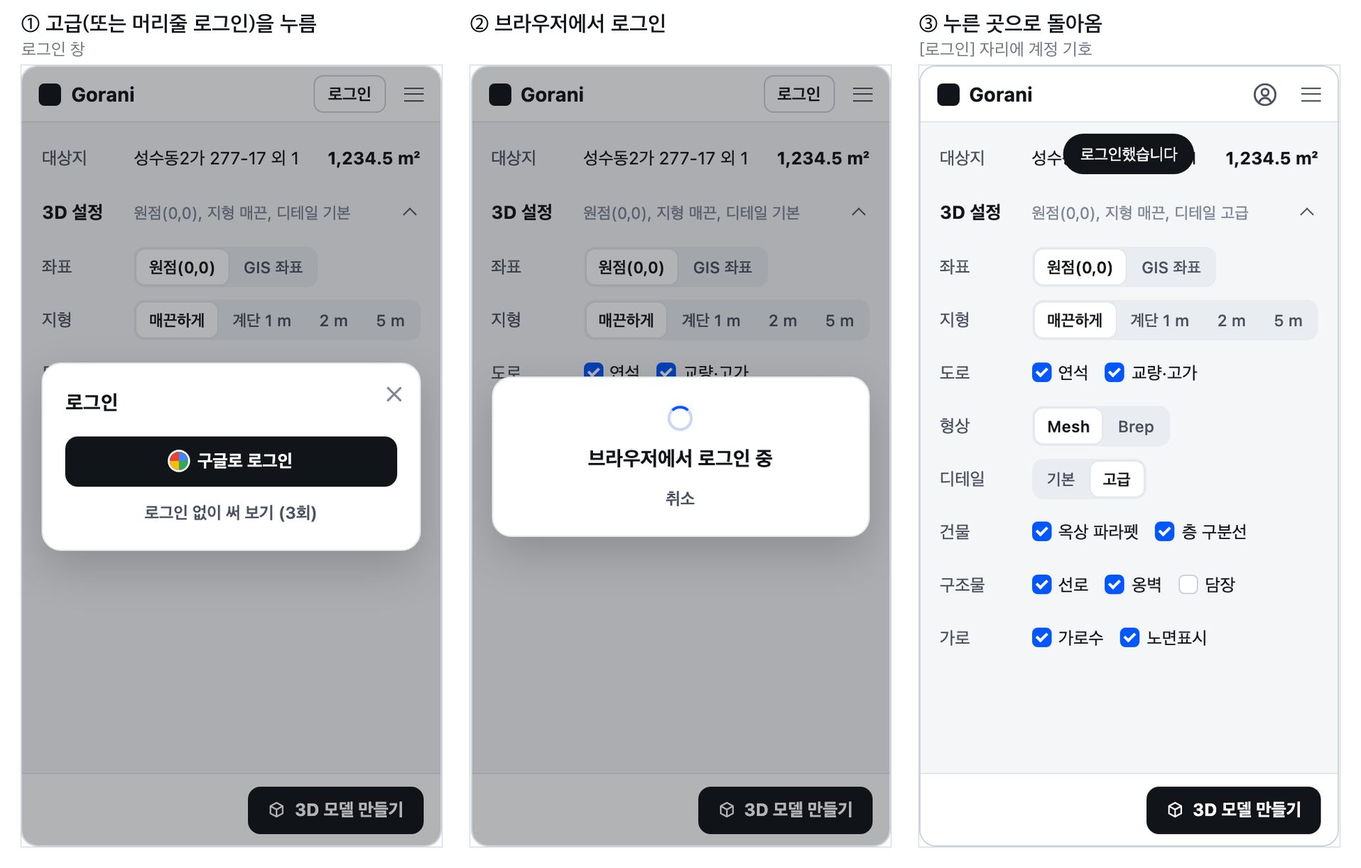
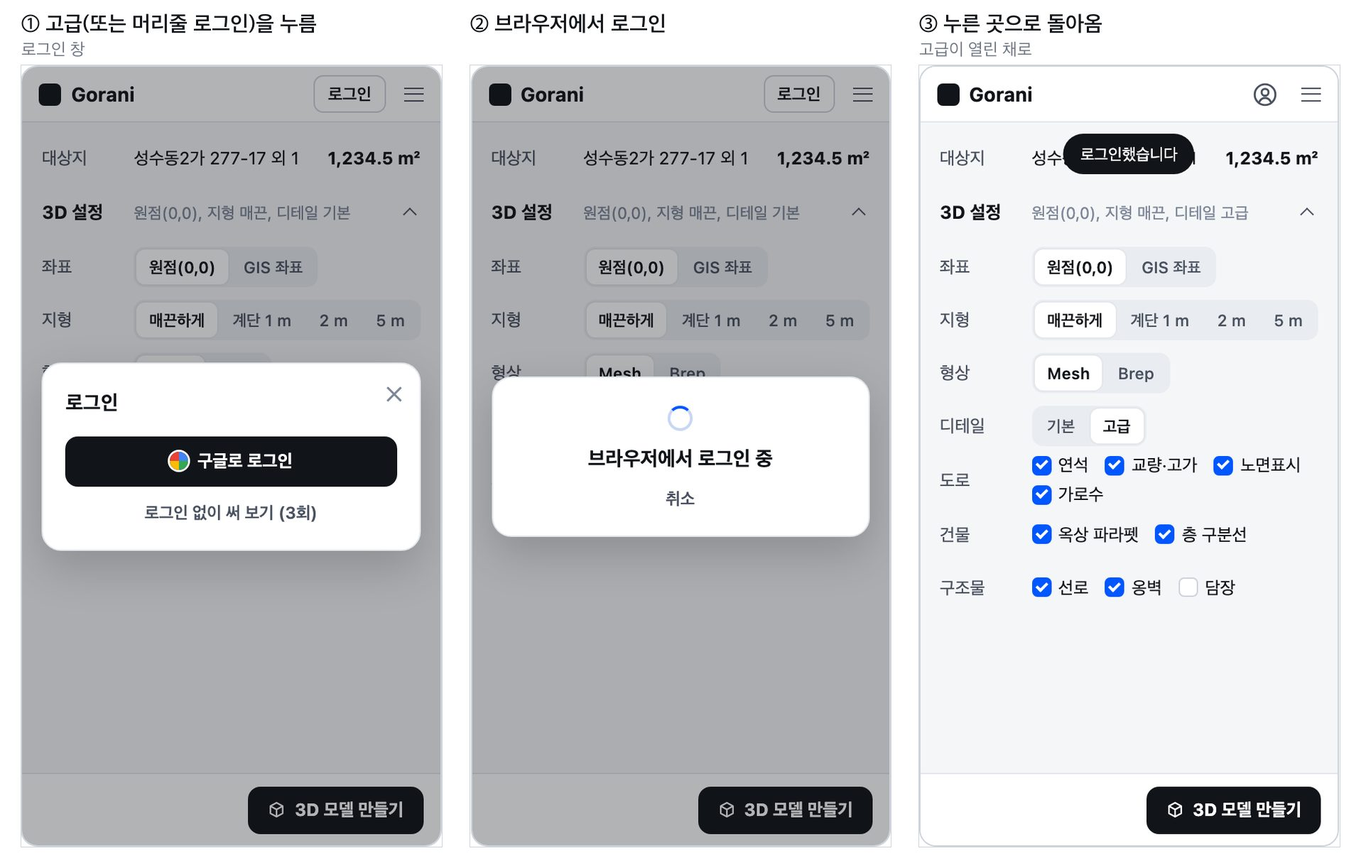
docs: 회원 계획 — 디테일 기본 = 도로(연석·교량·고가), 고급은 같은 줄에 노면표시·가로수를 더하고 건물·구조물 줄을 여는 꼴, 중요도 옥상 파라펫 > 층 구분선 > 노면표시(와이어프레임 v16)

diff --git a/docs/preview/account/wireframe.html b/docs/preview/account/wireframe.html
@@ -183,6 +183,17 @@
   .pn .acpop .r .m { color: #7d8798; }
   .pn .hrow .st { flex: none; width: 26px; height: 26px; display: inline-grid; place-items: center; color: #aab2bd; font-size: 16px; }
   .pn .hrow .st.on { color: #111418; }
+</style><style>
+  .pn .hd .login.off { color: #aab2bd; border-color: #e3e6eb; }
+  .pn .hd .acct { width: 26px; height: 26px; display: inline-grid; place-items: center; color: #4a5260; margin-right: 6px; border-radius: 7px; }
+  .pn .hd .acct.on { background: #e9ecf0; color: #111418; }
+  .pn .acpop { position: absolute; right: 40px; top: 38px; width: 220px; background: #fff; border: 1px solid #e3e6eb; border-radius: 12px; box-shadow: 0 8px 24px rgba(0,0,0,.12); padding: 4px 0; z-index: 4; font-size: 12.5px; }
+  .pn .acpop .r { display: flex; align-items: center; gap: 8px; min-height: 38px; padding: 0 12px; }
+  .pn .acpop .r + .r { border-top: 1px solid #e3e6eb; }
+  .pn .acpop .r .v { flex: 1; min-width: 0; overflow: hidden; text-overflow: ellipsis; white-space: nowrap; }
+  .pn .acpop .r .m { color: #7d8798; }
+  .pn .hrow .st { flex: none; width: 26px; height: 26px; display: inline-grid; place-items: center; color: #aab2bd; font-size: 16px; }
+  .pn .hrow .st.on { color: #111418; }
 </style></head>
 <body>
 <svg width="0" height="0" style="position:absolute">
@@ -191,4 +202,4 @@
   <symbol id="cube" viewBox="0 0 16 16"><path d="M8 1.8l5.4 3v6.4L8 14.2l-5.4-3V4.8z M2.6 4.8L8 7.8l5.4-3 M8 7.8v6.4" fill="none" stroke="currentColor" stroke-width="1.4" stroke-linejoin="round"/></symbol>
 </svg>
 
-<h1>Gorani 회원·고급 디테일 — 와이어프레임 v15</h1><p class="lead">꾸밈과 안내 문구 없이 지금 패널의 줄·단추 꼴만 씁니다. 손님은 머리줄 [로그인], 회원은 그 자리에 계정 기호. 로딩·결과 화면은 지금 그대로.</p><h2>A. 고급 디테일</h2><div class="flow"><div class="step"><p class="cap">A1 손님 · 지도 화면</p><div class="pn"><div class="hd"><span class="logo"></span><span class="wm">Gorani</span><span class="login">로그인</span><span class="burger"></span></div><div class="map"><i></i></div><div class="tray" style="padding-top:4px"><div class="trow"><span class="lbl">대상지</span><span class="val">성수동2가 277-17 외 1</span><span class="area">1,234.5 m²</span></div><div class="trow"><span class="lbl">범위</span><span class="seg"><b>원</b><b class="on">사각형</b></span></div><div class="trow"><span class="lbl">한 변</span><span class="seg"><b>500</b><b class="on">1,000</b><b>2,000</b><b>직접</b></span></div><div class="sec"><span class="t">3D 설정</span><span class="s">원점(0,0), 지형 매끈, 디테일 기본</span><span class="chev"></span></div></div><div class="foot"><span class="mk"><svg width="13" height="13"><use href="#cube"/></svg>3D 모델 만들기</span></div></div><p class="note">머리줄 오른쪽 [로그인](손님만, 모든 화면). 3D 설정 요약 끝에 '디테일 기본'.</p></div><div class="step"><p class="cap">A2 3D 설정 펼침</p><div class="pn"><div class="hd"><span class="logo"></span><span class="wm">Gorani</span><span class="login">로그인</span><span class="burger"></span></div><div class="tray" style="padding-top:6px"><div class="trow"><span class="lbl">대상지</span><span class="val">성수동2가 277-17 외 1</span><span class="area">1,234.5 m²</span></div><div class="sec"><span class="t">3D 설정</span><span class="s">원점(0,0), 지형 매끈, 디테일 기본</span><span class="chev up"></span></div><div class="trow"><span class="lbl">좌표</span><span class="seg"><b class="on">원점(0,0)</b><b>GIS 좌표</b></span></div><div class="trow"><span class="lbl">지형</span><span class="seg"><b class="on">매끈하게</b><b>계단 1 m</b><b>2 m</b><b>5 m</b></span></div><div class="trow"><span class="lbl">도로</span><span class="chks"><span class="ck"><span class="box on"></span>연석</span><span class="ck"><span class="box on"></span>교량·고가</span></span></div><div class="trow"><span class="lbl">형상</span><span class="seg"><b class="on">Mesh</b><b>Brep</b></span></div><div class="trow"><span class="lbl">디테일</span><span class="seg"><b class="on">기본</b><b class="lkd"><svg width="10" height="10"><use href="#lock"/></svg>고급</b></span></div></div><div class="foot"><span class="mk"><svg width="13" height="13"><use href="#cube"/></svg>3D 모델 만들기</span></div></div><p class="note">맨 아래 디테일 [기본 | 고급]. 손님은 고급에 자물쇠만.</p></div><div class="step"><p class="cap">A3 고급(또는 머리줄 로그인)을 누르면</p><div class="pn"><div class="hd"><span class="logo"></span><span class="wm">Gorani</span><span class="login">로그인</span><span class="burger"></span></div><div class="tray" style="padding-top:6px"><div class="trow"><span class="lbl">대상지</span><span class="val">성수동2가 277-17 외 1</span><span class="area">1,234.5 m²</span></div><div class="sec"><span class="t">3D 설정</span><span class="s">원점(0,0), 지형 매끈, 디테일 기본</span><span class="chev up"></span></div><div class="trow"><span class="lbl">좌표</span><span class="seg"><b class="on">원점(0,0)</b><b>GIS 좌표</b></span></div><div class="trow"><span class="lbl">지형</span><span class="seg"><b class="on">매끈하게</b><b>계단 1 m</b><b>2 m</b><b>5 m</b></span></div><div class="trow"><span class="lbl">도로</span><span class="chks"><span class="ck"><span class="box on"></span>연석</span><span class="ck"><span class="box on"></span>교량·고가</span></span></div><div class="trow"><span class="lbl">형상</span><span class="seg"><b class="on">Mesh</b><b>Brep</b></span></div><div class="trow"><span class="lbl">디테일</span><span class="seg"><b class="on">기본</b><b class="lkd"><svg width="10" height="10"><use href="#lock"/></svg>고급</b></span></div></div><div class="foot"><span class="mk"><svg width="13" height="13"><use href="#cube"/></svg>3D 모델 만들기</span></div><div class="veil"><div class="dlg min"><span class="x">✕</span><h4>로그인</h4><div class="pbtn"><span class="gg"></span>구글로 로그인</div><div class="sbtn">로그인 없이 써 보기 (3회)</div></div></div></div><p class="note">로그인 창. 두 번째 단추는 고급에서 열었을 때만.</p></div><div class="step"><p class="cap">A4 브라우저에서 로그인</p><div class="pn"><div class="hd"><span class="logo"></span><span class="wm">Gorani</span><span class="login">로그인</span><span class="burger"></span></div><div class="tray" style="padding-top:6px"><div class="trow"><span class="lbl">대상지</span><span class="val">성수동2가 277-17 외 1</span><span class="area">1,234.5 m²</span></div><div class="sec"><span class="t">3D 설정</span><span class="s">원점(0,0), 지형 매끈, 디테일 기본</span><span class="chev up"></span></div><div class="trow"><span class="lbl">좌표</span><span class="seg"><b class="on">원점(0,0)</b><b>GIS 좌표</b></span></div><div class="trow"><span class="lbl">지형</span><span class="seg"><b class="on">매끈하게</b><b>계단 1 m</b><b>2 m</b><b>5 m</b></span></div><div class="trow"><span class="lbl">도로</span><span class="chks"><span class="ck"><span class="box on"></span>연석</span><span class="ck"><span class="box on"></span>교량·고가</span></span></div><div class="trow"><span class="lbl">형상</span><span class="seg"><b class="on">Mesh</b><b>Brep</b></span></div><div class="trow"><span class="lbl">디테일</span><span class="seg"><b class="on">기본</b><b class="lkd"><svg width="10" height="10"><use href="#lock"/></svg>고급</b></span></div></div><div class="foot"><span class="mk"><svg width="13" height="13"><use href="#cube"/></svg>3D 모델 만들기</span></div><div class="veil"><div class="dlg min" style="text-align:center"><div class="spin"></div><h4 style="margin:0 0 4px">브라우저에서 로그인 중</h4><div class="sbtn">취소</div></div></div></div><p class="note">로그인은 브라우저가 합니다.</p></div><div class="step"><p class="cap">A5 돌아오면</p><div class="pn"><div class="hd"><span class="logo"></span><span class="wm">Gorani</span><span class="acct"><svg width="18" height="18" viewBox="0 0 16 16" fill="none" stroke="currentColor" stroke-width="1.3"><circle cx="8" cy="8" r="6.6"/><circle cx="8" cy="6.5" r="2.2"/><path d="M4.4 12.4c.9-1.5 2.1-2.3 3.6-2.3s2.7.8 3.6 2.3" stroke-linecap="round"/></svg></span><span class="burger"></span></div><div class="tray" style="padding-top:6px"><div class="trow"><span class="lbl">대상지</span><span class="val">성수동2가 277-17 외 1</span><span class="area">1,234.5 m²</span></div><div class="sec"><span class="t">3D 설정</span><span class="s">원점(0,0), 지형 매끈, 디테일 고급</span><span class="chev up"></span></div><div class="trow"><span class="lbl">좌표</span><span class="seg"><b class="on">원점(0,0)</b><b>GIS 좌표</b></span></div><div class="trow"><span class="lbl">지형</span><span class="seg"><b class="on">매끈하게</b><b>계단 1 m</b><b>2 m</b><b>5 m</b></span></div><div class="trow"><span class="lbl">도로</span><span class="chks"><span class="ck"><span class="box on"></span>연석</span><span class="ck"><span class="box on"></span>교량·고가</span></span></div><div class="trow"><span class="lbl">형상</span><span class="seg"><b class="on">Mesh</b><b>Brep</b></span></div><div class="trow"><span class="lbl">디테일</span><span class="seg"><b>기본</b><b class="on">고급</b></span></div><div class="trow"><span class="lbl">건물</span><span class="chks"><span class="ck"><span class="box on"></span>옥상 파라펫</span><span class="ck"><span class="box on"></span>층 구분선</span></span></div><div class="trow"><span class="lbl">구조물</span><span class="chks"><span class="ck"><span class="box on"></span>선로</span><span class="ck"><span class="box on"></span>옹벽</span><span class="ck"><span class="box"></span>담장</span></span></div><div class="trow"><span class="lbl">가로</span><span class="chks"><span class="ck"><span class="box on"></span>가로수</span><span class="ck"><span class="box on"></span>노면표시</span></span></div></div><div class="foot"><span class="mk"><svg width="13" height="13"><use href="#cube"/></svg>3D 모델 만들기</span></div><div class="toast">로그인했습니다</div></div><p class="note">[로그인] 자리에 계정 기호. 누른 곳으로 — 고급이 눌린 채로.</p></div></div><h2>B. 처음 만들기·로딩·완료</h2><div class="flow"><div class="step"><p class="cap">B1 처음 [3D 모델 만들기] (한 번만)</p><div class="pn"><div class="hd"><span class="logo"></span><span class="wm">Gorani</span><span class="login">로그인</span><span class="burger"></span></div><div class="map"><i></i></div><div class="tray" style="padding-top:4px"><div class="trow"><span class="lbl">대상지</span><span class="val">성수동2가 277-17 외 1</span><span class="area">1,234.5 m²</span></div><div class="trow"><span class="lbl">범위</span><span class="seg"><b>원</b><b class="on">사각형</b></span></div><div class="trow"><span class="lbl">한 변</span><span class="seg"><b>500</b><b class="on">1,000</b><b>2,000</b><b>직접</b></span></div><div class="sec"><span class="t">3D 설정</span><span class="s">원점(0,0), 지형 매끈, 디테일 기본</span><span class="chev"></span></div></div><div class="foot"><span class="mk"><svg width="13" height="13"><use href="#cube"/></svg>3D 모델 만들기</span></div><div class="veil"><div class="dlg min"><span class="x">✕</span><h4>로그인</h4><div class="pbtn"><span class="gg"></span>구글로 로그인</div><div class="sbtn">로그인 없이 만들기</div></div></div></div><p class="note">같은 로그인 창. 고르면 바로 만듭니다.</p></div><div class="step"><p class="cap">B2 로딩 · 지금 화면 그대로</p><div class="pn"><div class="hd"><span class="logo"></span><span class="wm">Gorani</span><span class="login off">로그인</span><span class="burger"></span></div><div class="runcard"><div class="top"><h4>3D 모델 만드는 중</h4><span class="cancel"><i></i>취소</span></div><div class="meta">성수동2가 277-17 외 1, 1,234.5 m², 사각형 한 변 2,000 m · 기본</div><div class="trk"><div class="fl" style="width:50%"></div><span class="rn" style="left:calc((100% - 48px) * 0.5)"><svg xmlns="http://www.w3.org/2000/svg" width="48" height="36" viewBox="0 0 64 48"><g fill="none" stroke="currentColor" stroke-linecap="round" stroke-linejoin="round"><path d="M21.00 25.60L15.89 34.19" stroke-width="5"/><path d="M15.89 34.19L2.92 35.15" stroke-width="2.6"/><path d="M41.00 27.60L46.03 35.06" stroke-width="3.6"/><path d="M46.03 35.06L52.74 45.01" stroke-width="2.4"/><path d="M21.00 25.60L14.84 33.48" stroke-width="5"/><path d="M14.84 33.48L2.97 38.77" stroke-width="2.6"/><path d="M41.00 27.60L47.02 34.29" stroke-width="3.6"/><path d="M47.02 34.29L55.05 43.21" stroke-width="2.4"/></g><g fill="currentColor" transform="translate(0 1.60)"><path d="M13 21C13 14 20 11 27 13C33 15 39 17 44 19C49 21 49 29 43 30.5C35 32 26 31 19 29.5C15 28.5 13 25 13 21Z"/><path d="M40 21C43 15 47 11 51 9L56 13C52 17 48 23 46 29Z"/><path d="M49 7C53 4.5 58 6.5 62 11C63.5 13 62.5 15 60.5 15H54C50.5 15 48 11.5 49 7Z"/><path d="M51 8C49 3 45.5 0 42 0.5C42 4 45 8 49.5 11Z"/><path d="M14 17C12 14.5 11 12.5 11.5 11C13.5 12 15 14 16 16Z"/></g></svg></span></div><div class="pm"><span><b>50</b> %</span><span>0:14</span></div><ul class="ph"><li><span class="okk">✓</span>건물과 지형 불러오기<span class="det">건물 1,842동</span></li><li class="run"><span class="dot"></span>3D 모델 만들기</li><li class="pend"><span class="ring"></span>Rhino 파일에 넣기</li></ul><div class="rnote">Rhino 안에서 만들어 Rhino 화면이 잠깐씩 멈출 수 있습니다.</div></div><div class="logline">▸ 로그 자세히 보기 (1줄)</div></div><p class="note">만드는 동안 패널은 엔진을 기다려 다른 단추를 받지 않습니다 — 머리줄 [로그인]도 잠깁니다.</p></div><div class="step"><p class="cap">B3 생성 완료 — 지금과 같음</p><div class="pn"><div class="hd"><span class="logo"></span><span class="wm">Gorani</span><span class="login">로그인</span><span class="burger"></span></div><div class="card2"><h4>3D 모델 생성 완료 <span class="m">0:08</span><span class="sp"></span><span class="btnw" style="margin:0">폴더 열기</span></h4><div class="m">성수동2가 277-17 외 1, 1,234.5 m²</div></div><div class="card2"><h4>2D 자료도 만들까요?<span class="sp"></span><span class="btnw" style="margin:0">2D 자료 만들기</span></h4><div class="opt2"><span>▢</span><span>베이스맵<small>Illustrator 레이어 도면 (.ai)</small></span></div><div class="opt2"><span>▦</span><span>다이어그램<small>현황도와 분석도 (.svg, .ai)</small></span></div><div class="opt2"><span>▤</span><span>조서<small>필지와 건축물 표 (엑셀 CSV)</small></span></div></div></div><p class="note">결과 화면은 그대로. 손님이면 머리줄 [로그인]만.</p></div></div><h2>C. 생성 기록 — 회원만</h2><div class="flow"><div class="step"><p class="cap">C1 손님 · 지도(대상지 없음)</p><div class="pn"><div class="hd"><span class="logo"></span><span class="wm">Gorani</span><span class="login">로그인</span><span class="burger"></span></div><div class="map"></div><div class="tray"><div class="rech">최근 결과<span class="sp"></span></div><div class="rec"><span class="nm">성수동2가 277-17 외 1</span><span class="mt">3D, 2D · 11-14</span></div><div class="rec"><span class="nm">을지로3가 구역</span><span class="mt">3D · 11-14</span></div><div class="rec"><span class="nm">Shibuya, Tokyo</span><span class="mt">3D · 11-10</span></div></div><div class="foot"><span class="mk" style="opacity:.45"><svg width="13" height="13"><use href="#cube"/></svg>3D 모델 만들기</span></div></div><p class="note">손님에게는 생성 기록이 없습니다. '최근 결과'(지금 기능)는 그대로.</p></div><div class="step"><p class="cap">C2 회원 · 지도(대상지 없음)</p><div class="pn"><div class="hd"><span class="logo"></span><span class="wm">Gorani</span><span class="acct"><svg width="18" height="18" viewBox="0 0 16 16" fill="none" stroke="currentColor" stroke-width="1.3"><circle cx="8" cy="8" r="6.6"/><circle cx="8" cy="6.5" r="2.2"/><path d="M4.4 12.4c.9-1.5 2.1-2.3 3.6-2.3s2.7.8 3.6 2.3" stroke-linecap="round"/></svg></span><span class="burger"></span></div><div class="map"></div><div class="tray"><div class="rech">최근 결과<span class="sp"></span><a>생성 기록 ›</a></div><div class="rec"><span class="nm">성수동2가 277-17 외 1</span><span class="mt">3D, 2D · 11-14</span></div><div class="rec"><span class="nm">을지로3가 구역</span><span class="mt">3D · 11-14</span></div><div class="rec"><span class="nm">Shibuya, Tokyo</span><span class="mt">3D · 11-10</span></div></div><div class="foot"><span class="mk" style="opacity:.45"><svg width="13" height="13"><use href="#cube"/></svg>3D 모델 만들기</span></div></div><p class="note">회원에게만 '생성 기록 ›'.</p></div><div class="step"><p class="cap">C3 회원 · 생성 기록</p><div class="pn"><div class="hd"><span class="logo"></span><span class="wm">Gorani</span><span class="acct"><svg width="18" height="18" viewBox="0 0 16 16" fill="none" stroke="currentColor" stroke-width="1.3"><circle cx="8" cy="8" r="6.6"/><circle cx="8" cy="6.5" r="2.2"/><path d="M4.4 12.4c.9-1.5 2.1-2.3 3.6-2.3s2.7.8 3.6 2.3" stroke-linecap="round"/></svg></span><span class="burger"></span></div><div class="scr"><span class="back">← 지도로</span><span class="ttl">생성 기록</span></div><div class="segw" style="margin-top:10px"><span class="seg"><b class="on">전체</b><b>★</b></span></div><div class="grpd">오늘</div><div class="hrow"><span class="th"><i></i></span><span class="tx"><div class="nm">성수동2가 277-17 외 1</div><div class="mt">15:02 · 사각형 1 km · 고급</div></span><span class="st on">★</span></div><div class="hrow"><span class="th"><i></i></span><span class="tx"><div class="nm">을지로3가 구역</div><div class="mt">11:40 · 사각형 2 km · 기본</div></span><span class="st">☆</span></div><div class="grpd">이번 주</div><div class="hrow"><span class="th"><i></i></span><span class="tx"><div class="nm">연남동 239-5</div><div class="mt">11-09 · 원 500 m · 고급</div></span><span class="st">☆</span></div><div class="hrow"><span class="th"><i></i></span><span class="tx"><div class="nm">Shibuya, Tokyo</div><div class="mt">11-10 · 사각형 1 km · 기본</div></span><span class="st on">★</span></div></div><p class="note">검색 없음. 기록마다 오른쪽 ☆로 즐겨찾기, 위 [전체 | ★]로 거르기. PC 구분 없이 아이디 하나에 모은 기록.</p></div></div><h2>D. 계정</h2><div class="flow"><div class="step"><p class="cap">D1 회원 · 계정 기호를 누르면</p><div class="pn"><div class="hd"><span class="logo"></span><span class="wm">Gorani</span><span class="acct on"><svg width="18" height="18" viewBox="0 0 16 16" fill="none" stroke="currentColor" stroke-width="1.3"><circle cx="8" cy="8" r="6.6"/><circle cx="8" cy="6.5" r="2.2"/><path d="M4.4 12.4c.9-1.5 2.1-2.3 3.6-2.3s2.7.8 3.6 2.3" stroke-linecap="round"/></svg></span><span class="burger"></span></div><div class="map"><i></i></div><div class="tray" style="padding-top:4px"><div class="trow"><span class="lbl">대상지</span><span class="val">성수동2가 277-17 외 1</span><span class="area">1,234.5 m²</span></div><div class="trow"><span class="lbl">범위</span><span class="seg"><b>원</b><b class="on">사각형</b></span></div><div class="trow"><span class="lbl">한 변</span><span class="seg"><b>500</b><b class="on">1,000</b><b>2,000</b><b>직접</b></span></div><div class="sec"><span class="t">3D 설정</span><span class="s">원점(0,0), 지형 매끈, 디테일 고급</span><span class="chev"></span></div></div><div class="foot"><span class="mk"><svg width="13" height="13"><use href="#cube"/></svg>3D 모델 만들기</span></div><div class="acpop"><div class="r"><span class="v">name@gmail.com</span><span class="btnw" style="margin:0">로그아웃</span></div><div class="r"><span class="v">생성 기록</span><span class="m">23 ›</span></div></div></div><p class="note">메일·[로그아웃]과 생성 기록. 더보기 메뉴(설정·도움)는 지금과 같습니다.</p></div></div></body></html>
+<h1>Gorani 회원·고급 디테일 — 와이어프레임 v16</h1><p class="lead">꾸밈과 안내 문구 없이 지금 패널의 줄·단추 꼴만 씁니다. 손님은 머리줄 [로그인], 회원은 그 자리에 계정 기호. 로딩·결과 화면은 지금 그대로.</p><h2>A. 고급 디테일</h2><div class="flow"><div class="step"><p class="cap">A1 손님 · 지도 화면</p><div class="pn"><div class="hd"><span class="logo"></span><span class="wm">Gorani</span><span class="login">로그인</span><span class="burger"></span></div><div class="map"><i></i></div><div class="tray" style="padding-top:4px"><div class="trow"><span class="lbl">대상지</span><span class="val">성수동2가 277-17 외 1</span><span class="area">1,234.5 m²</span></div><div class="trow"><span class="lbl">범위</span><span class="seg"><b>원</b><b class="on">사각형</b></span></div><div class="trow"><span class="lbl">한 변</span><span class="seg"><b>500</b><b class="on">1,000</b><b>2,000</b><b>직접</b></span></div><div class="sec"><span class="t">3D 설정</span><span class="s">원점(0,0), 지형 매끈, 디테일 기본</span><span class="chev"></span></div></div><div class="foot"><span class="mk"><svg width="13" height="13"><use href="#cube"/></svg>3D 모델 만들기</span></div></div><p class="note">머리줄 오른쪽 [로그인](손님만, 모든 화면). 3D 설정 요약 끝에 '디테일 기본'.</p></div><div class="step"><p class="cap">A2 3D 설정 펼침</p><div class="pn"><div class="hd"><span class="logo"></span><span class="wm">Gorani</span><span class="login">로그인</span><span class="burger"></span></div><div class="tray" style="padding-top:6px"><div class="trow"><span class="lbl">대상지</span><span class="val">성수동2가 277-17 외 1</span><span class="area">1,234.5 m²</span></div><div class="sec"><span class="t">3D 설정</span><span class="s">원점(0,0), 지형 매끈, 디테일 기본</span><span class="chev up"></span></div><div class="trow"><span class="lbl">좌표</span><span class="seg"><b class="on">원점(0,0)</b><b>GIS 좌표</b></span></div><div class="trow"><span class="lbl">지형</span><span class="seg"><b class="on">매끈하게</b><b>계단 1 m</b><b>2 m</b><b>5 m</b></span></div><div class="trow"><span class="lbl">형상</span><span class="seg"><b class="on">Mesh</b><b>Brep</b></span></div><div class="trow"><span class="lbl">디테일</span><span class="seg"><b class="on">기본</b><b class="lkd"><svg width="10" height="10"><use href="#lock"/></svg>고급</b></span></div><div class="trow"><span class="lbl">도로</span><span class="chks"><span class="ck"><span class="box on"></span>연석</span><span class="ck"><span class="box on"></span>교량·고가</span></span></div></div><div class="foot"><span class="mk"><svg width="13" height="13"><use href="#cube"/></svg>3D 모델 만들기</span></div></div><p class="note">맨 아래 디테일 [기본 | 고급]. 기본 = 도로(연석·교량·고가). 손님은 고급에 자물쇠만.</p></div><div class="step"><p class="cap">A3 고급(또는 머리줄 로그인)을 누르면</p><div class="pn"><div class="hd"><span class="logo"></span><span class="wm">Gorani</span><span class="login">로그인</span><span class="burger"></span></div><div class="tray" style="padding-top:6px"><div class="trow"><span class="lbl">대상지</span><span class="val">성수동2가 277-17 외 1</span><span class="area">1,234.5 m²</span></div><div class="sec"><span class="t">3D 설정</span><span class="s">원점(0,0), 지형 매끈, 디테일 기본</span><span class="chev up"></span></div><div class="trow"><span class="lbl">좌표</span><span class="seg"><b class="on">원점(0,0)</b><b>GIS 좌표</b></span></div><div class="trow"><span class="lbl">지형</span><span class="seg"><b class="on">매끈하게</b><b>계단 1 m</b><b>2 m</b><b>5 m</b></span></div><div class="trow"><span class="lbl">형상</span><span class="seg"><b class="on">Mesh</b><b>Brep</b></span></div><div class="trow"><span class="lbl">디테일</span><span class="seg"><b class="on">기본</b><b class="lkd"><svg width="10" height="10"><use href="#lock"/></svg>고급</b></span></div><div class="trow"><span class="lbl">도로</span><span class="chks"><span class="ck"><span class="box on"></span>연석</span><span class="ck"><span class="box on"></span>교량·고가</span></span></div></div><div class="foot"><span class="mk"><svg width="13" height="13"><use href="#cube"/></svg>3D 모델 만들기</span></div><div class="veil"><div class="dlg min"><span class="x">✕</span><h4>로그인</h4><div class="pbtn"><span class="gg"></span>구글로 로그인</div><div class="sbtn">로그인 없이 써 보기 (3회)</div></div></div></div><p class="note">로그인 창. 두 번째 단추는 고급에서 열었을 때만.</p></div><div class="step"><p class="cap">A4 브라우저에서 로그인</p><div class="pn"><div class="hd"><span class="logo"></span><span class="wm">Gorani</span><span class="login">로그인</span><span class="burger"></span></div><div class="tray" style="padding-top:6px"><div class="trow"><span class="lbl">대상지</span><span class="val">성수동2가 277-17 외 1</span><span class="area">1,234.5 m²</span></div><div class="sec"><span class="t">3D 설정</span><span class="s">원점(0,0), 지형 매끈, 디테일 기본</span><span class="chev up"></span></div><div class="trow"><span class="lbl">좌표</span><span class="seg"><b class="on">원점(0,0)</b><b>GIS 좌표</b></span></div><div class="trow"><span class="lbl">지형</span><span class="seg"><b class="on">매끈하게</b><b>계단 1 m</b><b>2 m</b><b>5 m</b></span></div><div class="trow"><span class="lbl">형상</span><span class="seg"><b class="on">Mesh</b><b>Brep</b></span></div><div class="trow"><span class="lbl">디테일</span><span class="seg"><b class="on">기본</b><b class="lkd"><svg width="10" height="10"><use href="#lock"/></svg>고급</b></span></div><div class="trow"><span class="lbl">도로</span><span class="chks"><span class="ck"><span class="box on"></span>연석</span><span class="ck"><span class="box on"></span>교량·고가</span></span></div></div><div class="foot"><span class="mk"><svg width="13" height="13"><use href="#cube"/></svg>3D 모델 만들기</span></div><div class="veil"><div class="dlg min" style="text-align:center"><div class="spin"></div><h4 style="margin:0 0 4px">브라우저에서 로그인 중</h4><div class="sbtn">취소</div></div></div></div><p class="note">로그인은 브라우저가 합니다.</p></div><div class="step"><p class="cap">A5 돌아오면</p><div class="pn"><div class="hd"><span class="logo"></span><span class="wm">Gorani</span><span class="acct"><svg width="18" height="18" viewBox="0 0 16 16" fill="none" stroke="currentColor" stroke-width="1.3"><circle cx="8" cy="8" r="6.6"/><circle cx="8" cy="6.5" r="2.2"/><path d="M4.4 12.4c.9-1.5 2.1-2.3 3.6-2.3s2.7.8 3.6 2.3" stroke-linecap="round"/></svg></span><span class="burger"></span></div><div class="tray" style="padding-top:6px"><div class="trow"><span class="lbl">대상지</span><span class="val">성수동2가 277-17 외 1</span><span class="area">1,234.5 m²</span></div><div class="sec"><span class="t">3D 설정</span><span class="s">원점(0,0), 지형 매끈, 디테일 고급</span><span class="chev up"></span></div><div class="trow"><span class="lbl">좌표</span><span class="seg"><b class="on">원점(0,0)</b><b>GIS 좌표</b></span></div><div class="trow"><span class="lbl">지형</span><span class="seg"><b class="on">매끈하게</b><b>계단 1 m</b><b>2 m</b><b>5 m</b></span></div><div class="trow"><span class="lbl">형상</span><span class="seg"><b class="on">Mesh</b><b>Brep</b></span></div><div class="trow"><span class="lbl">디테일</span><span class="seg"><b>기본</b><b class="on">고급</b></span></div><div class="trow"><span class="lbl">도로</span><span class="chks"><span class="ck"><span class="box on"></span>연석</span><span class="ck"><span class="box on"></span>교량·고가</span><span class="ck"><span class="box on"></span>노면표시</span><span class="ck"><span class="box on"></span>가로수</span></span></div><div class="trow"><span class="lbl">건물</span><span class="chks"><span class="ck"><span class="box on"></span>옥상 파라펫</span><span class="ck"><span class="box on"></span>층 구분선</span></span></div><div class="trow"><span class="lbl">구조물</span><span class="chks"><span class="ck"><span class="box on"></span>선로</span><span class="ck"><span class="box on"></span>옹벽</span><span class="ck"><span class="box"></span>담장</span></span></div></div><div class="foot"><span class="mk"><svg width="13" height="13"><use href="#cube"/></svg>3D 모델 만들기</span></div><div class="toast">로그인했습니다</div></div><p class="note">[로그인] 자리에 계정 기호. 고급이 눌리면 도로 줄에 노면표시·가로수가 더해지고 건물·구조물 줄이 열립니다.</p></div><div class="step"><p class="cap">A6 회원 · 기본</p><div class="pn"><div class="hd"><span class="logo"></span><span class="wm">Gorani</span><span class="acct"><svg width="18" height="18" viewBox="0 0 16 16" fill="none" stroke="currentColor" stroke-width="1.3"><circle cx="8" cy="8" r="6.6"/><circle cx="8" cy="6.5" r="2.2"/><path d="M4.4 12.4c.9-1.5 2.1-2.3 3.6-2.3s2.7.8 3.6 2.3" stroke-linecap="round"/></svg></span><span class="burger"></span></div><div class="tray" style="padding-top:6px"><div class="trow"><span class="lbl">대상지</span><span class="val">성수동2가 277-17 외 1</span><span class="area">1,234.5 m²</span></div><div class="sec"><span class="t">3D 설정</span><span class="s">원점(0,0), 지형 매끈, 디테일 기본</span><span class="chev up"></span></div><div class="trow"><span class="lbl">좌표</span><span class="seg"><b class="on">원점(0,0)</b><b>GIS 좌표</b></span></div><div class="trow"><span class="lbl">지형</span><span class="seg"><b class="on">매끈하게</b><b>계단 1 m</b><b>2 m</b><b>5 m</b></span></div><div class="trow"><span class="lbl">형상</span><span class="seg"><b class="on">Mesh</b><b>Brep</b></span></div><div class="trow"><span class="lbl">디테일</span><span class="seg"><b class="on">기본</b><b>고급</b></span></div><div class="trow"><span class="lbl">도로</span><span class="chks"><span class="ck"><span class="box on"></span>연석</span><span class="ck"><span class="box on"></span>교량·고가</span></span></div></div><div class="foot"><span class="mk"><svg width="13" height="13"><use href="#cube"/></svg>3D 모델 만들기</span></div></div><p class="note">회원도 기본이면 도로 줄만. 고급을 누르면 바로 열립니다.</p></div></div><h2>B. 처음 만들기·로딩·완료</h2><div class="flow"><div class="step"><p class="cap">B1 처음 [3D 모델 만들기] (한 번만)</p><div class="pn"><div class="hd"><span class="logo"></span><span class="wm">Gorani</span><span class="login">로그인</span><span class="burger"></span></div><div class="map"><i></i></div><div class="tray" style="padding-top:4px"><div class="trow"><span class="lbl">대상지</span><span class="val">성수동2가 277-17 외 1</span><span class="area">1,234.5 m²</span></div><div class="trow"><span class="lbl">범위</span><span class="seg"><b>원</b><b class="on">사각형</b></span></div><div class="trow"><span class="lbl">한 변</span><span class="seg"><b>500</b><b class="on">1,000</b><b>2,000</b><b>직접</b></span></div><div class="sec"><span class="t">3D 설정</span><span class="s">원점(0,0), 지형 매끈, 디테일 기본</span><span class="chev"></span></div></div><div class="foot"><span class="mk"><svg width="13" height="13"><use href="#cube"/></svg>3D 모델 만들기</span></div><div class="veil"><div class="dlg min"><span class="x">✕</span><h4>로그인</h4><div class="pbtn"><span class="gg"></span>구글로 로그인</div><div class="sbtn">로그인 없이 만들기</div></div></div></div><p class="note">같은 로그인 창. 고르면 바로 만듭니다.</p></div><div class="step"><p class="cap">B2 로딩 · 지금 화면 그대로</p><div class="pn"><div class="hd"><span class="logo"></span><span class="wm">Gorani</span><span class="login off">로그인</span><span class="burger"></span></div><div class="runcard"><div class="top"><h4>3D 모델 만드는 중</h4><span class="cancel"><i></i>취소</span></div><div class="meta">성수동2가 277-17 외 1, 1,234.5 m², 사각형 한 변 2,000 m · 기본</div><div class="trk"><div class="fl" style="width:50%"></div><span class="rn" style="left:calc((100% - 48px) * 0.5)"><svg xmlns="http://www.w3.org/2000/svg" width="48" height="36" viewBox="0 0 64 48"><g fill="none" stroke="currentColor" stroke-linecap="round" stroke-linejoin="round"><path d="M21.00 25.60L15.89 34.19" stroke-width="5"/><path d="M15.89 34.19L2.92 35.15" stroke-width="2.6"/><path d="M41.00 27.60L46.03 35.06" stroke-width="3.6"/><path d="M46.03 35.06L52.74 45.01" stroke-width="2.4"/><path d="M21.00 25.60L14.84 33.48" stroke-width="5"/><path d="M14.84 33.48L2.97 38.77" stroke-width="2.6"/><path d="M41.00 27.60L47.02 34.29" stroke-width="3.6"/><path d="M47.02 34.29L55.05 43.21" stroke-width="2.4"/></g><g fill="currentColor" transform="translate(0 1.60)"><path d="M13 21C13 14 20 11 27 13C33 15 39 17 44 19C49 21 49 29 43 30.5C35 32 26 31 19 29.5C15 28.5 13 25 13 21Z"/><path d="M40 21C43 15 47 11 51 9L56 13C52 17 48 23 46 29Z"/><path d="M49 7C53 4.5 58 6.5 62 11C63.5 13 62.5 15 60.5 15H54C50.5 15 48 11.5 49 7Z"/><path d="M51 8C49 3 45.5 0 42 0.5C42 4 45 8 49.5 11Z"/><path d="M14 17C12 14.5 11 12.5 11.5 11C13.5 12 15 14 16 16Z"/></g></svg></span></div><div class="pm"><span><b>50</b> %</span><span>0:14</span></div><ul class="ph"><li><span class="okk">✓</span>건물과 지형 불러오기<span class="det">건물 1,842동</span></li><li class="run"><span class="dot"></span>3D 모델 만들기</li><li class="pend"><span class="ring"></span>Rhino 파일에 넣기</li></ul><div class="rnote">Rhino 안에서 만들어 Rhino 화면이 잠깐씩 멈출 수 있습니다.</div></div><div class="logline">▸ 로그 자세히 보기 (1줄)</div></div><p class="note">만드는 동안 패널은 엔진을 기다려 다른 단추를 받지 않습니다 — 머리줄 [로그인]도 잠깁니다.</p></div><div class="step"><p class="cap">B3 생성 완료 — 지금과 같음</p><div class="pn"><div class="hd"><span class="logo"></span><span class="wm">Gorani</span><span class="login">로그인</span><span class="burger"></span></div><div class="card2"><h4>3D 모델 생성 완료 <span class="m">0:08</span><span class="sp"></span><span class="btnw" style="margin:0">폴더 열기</span></h4><div class="m">성수동2가 277-17 외 1, 1,234.5 m²</div></div><div class="card2"><h4>2D 자료도 만들까요?<span class="sp"></span><span class="btnw" style="margin:0">2D 자료 만들기</span></h4><div class="opt2"><span>▢</span><span>베이스맵<small>Illustrator 레이어 도면 (.ai)</small></span></div><div class="opt2"><span>▦</span><span>다이어그램<small>현황도와 분석도 (.svg, .ai)</small></span></div><div class="opt2"><span>▤</span><span>조서<small>필지와 건축물 표 (엑셀 CSV)</small></span></div></div></div><p class="note">결과 화면은 그대로. 손님이면 머리줄 [로그인]만.</p></div></div><h2>C. 생성 기록 — 회원만</h2><div class="flow"><div class="step"><p class="cap">C1 손님 · 지도(대상지 없음)</p><div class="pn"><div class="hd"><span class="logo"></span><span class="wm">Gorani</span><span class="login">로그인</span><span class="burger"></span></div><div class="map"></div><div class="tray"><div class="rech">최근 결과<span class="sp"></span></div><div class="rec"><span class="nm">성수동2가 277-17 외 1</span><span class="mt">3D, 2D · 11-14</span></div><div class="rec"><span class="nm">을지로3가 구역</span><span class="mt">3D · 11-14</span></div><div class="rec"><span class="nm">Shibuya, Tokyo</span><span class="mt">3D · 11-10</span></div></div><div class="foot"><span class="mk" style="opacity:.45"><svg width="13" height="13"><use href="#cube"/></svg>3D 모델 만들기</span></div></div><p class="note">손님에게는 생성 기록이 없습니다. '최근 결과'(지금 기능)는 그대로.</p></div><div class="step"><p class="cap">C2 회원 · 지도(대상지 없음)</p><div class="pn"><div class="hd"><span class="logo"></span><span class="wm">Gorani</span><span class="acct"><svg width="18" height="18" viewBox="0 0 16 16" fill="none" stroke="currentColor" stroke-width="1.3"><circle cx="8" cy="8" r="6.6"/><circle cx="8" cy="6.5" r="2.2"/><path d="M4.4 12.4c.9-1.5 2.1-2.3 3.6-2.3s2.7.8 3.6 2.3" stroke-linecap="round"/></svg></span><span class="burger"></span></div><div class="map"></div><div class="tray"><div class="rech">최근 결과<span class="sp"></span><a>생성 기록 ›</a></div><div class="rec"><span class="nm">성수동2가 277-17 외 1</span><span class="mt">3D, 2D · 11-14</span></div><div class="rec"><span class="nm">을지로3가 구역</span><span class="mt">3D · 11-14</span></div><div class="rec"><span class="nm">Shibuya, Tokyo</span><span class="mt">3D · 11-10</span></div></div><div class="foot"><span class="mk" style="opacity:.45"><svg width="13" height="13"><use href="#cube"/></svg>3D 모델 만들기</span></div></div><p class="note">회원에게만 '생성 기록 ›'.</p></div><div class="step"><p class="cap">C3 회원 · 생성 기록</p><div class="pn"><div class="hd"><span class="logo"></span><span class="wm">Gorani</span><span class="acct"><svg width="18" height="18" viewBox="0 0 16 16" fill="none" stroke="currentColor" stroke-width="1.3"><circle cx="8" cy="8" r="6.6"/><circle cx="8" cy="6.5" r="2.2"/><path d="M4.4 12.4c.9-1.5 2.1-2.3 3.6-2.3s2.7.8 3.6 2.3" stroke-linecap="round"/></svg></span><span class="burger"></span></div><div class="scr"><span class="back">← 지도로</span><span class="ttl">생성 기록</span></div><div class="segw" style="margin-top:10px"><span class="seg"><b class="on">전체</b><b>★</b></span></div><div class="grpd">오늘</div><div class="hrow"><span class="th"><i></i></span><span class="tx"><div class="nm">성수동2가 277-17 외 1</div><div class="mt">15:02 · 사각형 1 km · 고급</div></span><span class="st on">★</span></div><div class="hrow"><span class="th"><i></i></span><span class="tx"><div class="nm">을지로3가 구역</div><div class="mt">11:40 · 사각형 2 km · 기본</div></span><span class="st">☆</span></div><div class="grpd">이번 주</div><div class="hrow"><span class="th"><i></i></span><span class="tx"><div class="nm">연남동 239-5</div><div class="mt">11-09 · 원 500 m · 고급</div></span><span class="st">☆</span></div><div class="hrow"><span class="th"><i></i></span><span class="tx"><div class="nm">Shibuya, Tokyo</div><div class="mt">11-10 · 사각형 1 km · 기본</div></span><span class="st on">★</span></div></div><p class="note">검색 없음. 기록마다 오른쪽 ☆로 즐겨찾기, 위 [전체 | ★]로 거르기. PC 구분 없이 아이디 하나에 모은 기록.</p></div></div><h2>D. 계정</h2><div class="flow"><div class="step"><p class="cap">D1 회원 · 계정 기호를 누르면</p><div class="pn"><div class="hd"><span class="logo"></span><span class="wm">Gorani</span><span class="acct on"><svg width="18" height="18" viewBox="0 0 16 16" fill="none" stroke="currentColor" stroke-width="1.3"><circle cx="8" cy="8" r="6.6"/><circle cx="8" cy="6.5" r="2.2"/><path d="M4.4 12.4c.9-1.5 2.1-2.3 3.6-2.3s2.7.8 3.6 2.3" stroke-linecap="round"/></svg></span><span class="burger"></span></div><div class="map"><i></i></div><div class="tray" style="padding-top:4px"><div class="trow"><span class="lbl">대상지</span><span class="val">성수동2가 277-17 외 1</span><span class="area">1,234.5 m²</span></div><div class="trow"><span class="lbl">범위</span><span class="seg"><b>원</b><b class="on">사각형</b></span></div><div class="trow"><span class="lbl">한 변</span><span class="seg"><b>500</b><b class="on">1,000</b><b>2,000</b><b>직접</b></span></div><div class="sec"><span class="t">3D 설정</span><span class="s">원점(0,0), 지형 매끈, 디테일 고급</span><span class="chev"></span></div></div><div class="foot"><span class="mk"><svg width="13" height="13"><use href="#cube"/></svg>3D 모델 만들기</span></div><div class="acpop"><div class="r"><span class="v">name@gmail.com</span><span class="btnw" style="margin:0">로그아웃</span></div><div class="r"><span class="v">생성 기록</span><span class="m">23 ›</span></div></div></div><p class="note">메일·[로그아웃]과 생성 기록. 더보기 메뉴(설정·도움)는 지금과 같습니다.</p></div></div></body></html>
